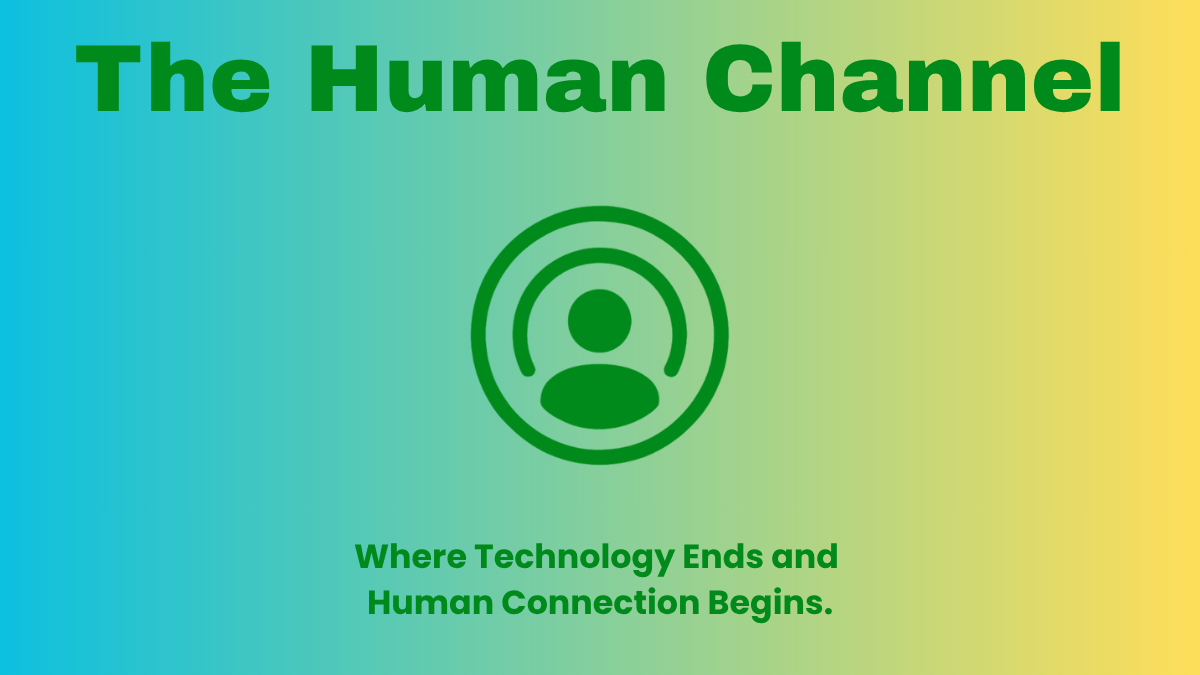
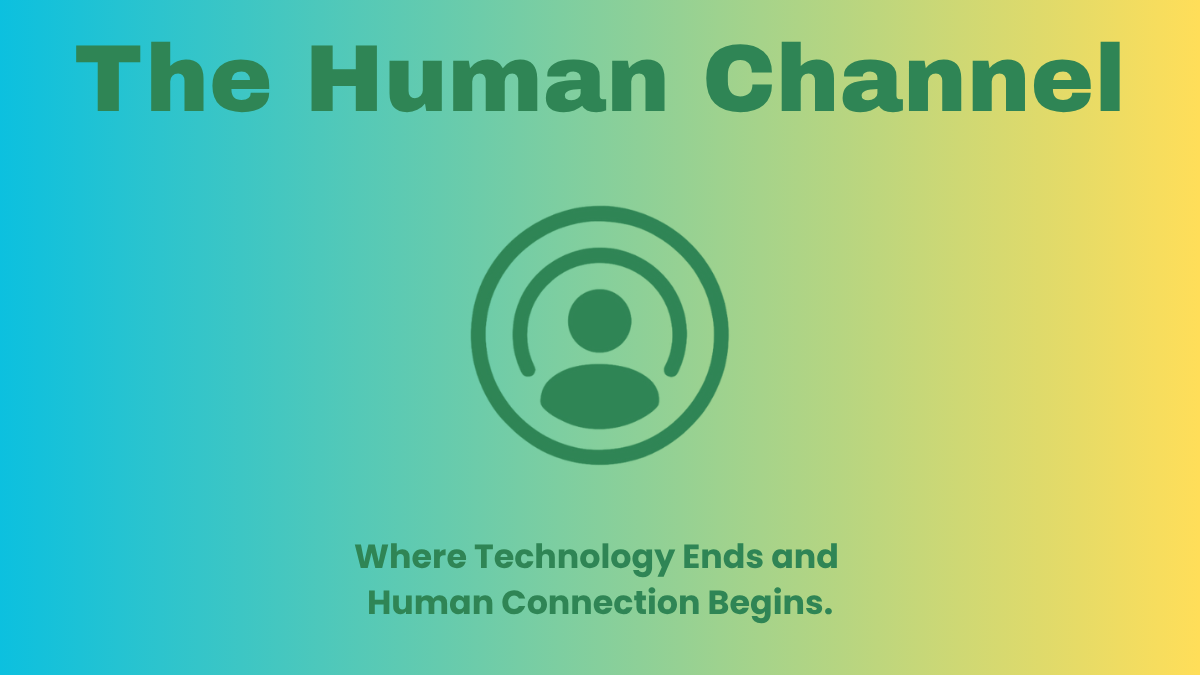
og image

diff --git a/docusaurus.config.ts b/docusaurus.config.ts
@@ -37,7 +37,7 @@ const config: Config = {
   ],
 
   themeConfig: {
-    image: 'img/docusaurus-social-card.jpg',
+    image: 'img/thc-social-card.png',
     navbar: {
       title: 'The Human Channel',
       logo: {
